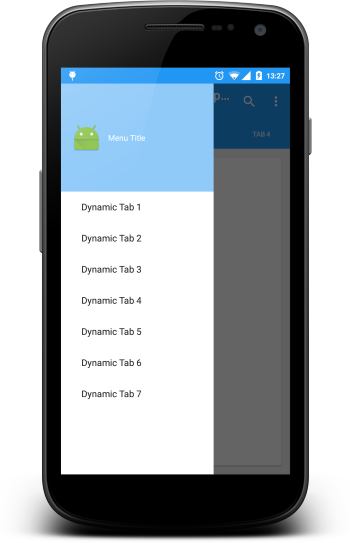
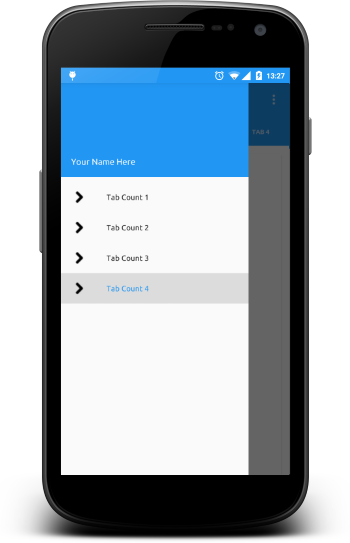
Added NavigationView Updated all components for SDK Level 23

diff --git a/app/src/main/java/net/mustafaozcan/materialnavigation/MainActivity.java b/app/src/main/java/net/mustafaozcan/materialnavigation/MainActivity.java
@@ -19,6 +19,7 @@ package net.mustafaozcan.materialnavigation;
 
 import android.content.res.Configuration;
 import android.os.Bundle;
+import android.support.design.widget.NavigationView;
 import android.support.v4.view.MenuItemCompat;
 import android.support.v4.view.ViewPager;
 import android.support.v4.widget.DrawerLayout;
@@ -30,16 +31,13 @@ import android.support.v7.widget.Toolbar;
 import android.view.Menu;
 import android.view.MenuItem;
 import android.view.View;
-import android.widget.AdapterView;
-import android.widget.ArrayAdapter;
-import android.widget.LinearLayout;
-import android.widget.ListView;
 import android.widget.Toast;
 
 public class MainActivity extends AppCompatActivity {
     private ActionBarDrawerToggle mDrawerToggle;
     private DrawerLayout mDrawerLayout;
-    private LinearLayout mDrawerPanel;
+    private NavigationView mNavigationView;
+    private int mCurrentSelectedPosition;
 
     @Override
     protected void onCreate(Bundle savedInstanceState) {
@@ -50,6 +48,8 @@ public class MainActivity extends AppCompatActivity {
 
         // Initial tab count
         setTabs(4);
+        mNavigationView.setCheckedItem(R.id.navigation_item_4);
+
     }
 
     private void setUpNavigationDrawer() {
@@ -67,19 +67,30 @@ public class MainActivity extends AppCompatActivity {
         } catch (Exception ignored) {
         }
 
-        ListView mDrawerListView = (ListView) findViewById(R.id.navDrawerList);
-        mDrawerPanel = (LinearLayout) findViewById(R.id.navDrawerPanel);
         mDrawerLayout = (DrawerLayout) findViewById(R.id.drawer_layout);
-        //String mActivityTitle = getTitle().toString();
-
-        ArrayAdapter<String> mAdapter = new ArrayAdapter<>(this, android.R.layout.simple_list_item_1, getResources().getStringArray(R.array.menulist));
-        mDrawerListView.setAdapter(mAdapter);
-
-        mDrawerListView.setOnItemClickListener(new AdapterView.OnItemClickListener() {
+        mNavigationView = (NavigationView) findViewById(R.id.navigation_view);
+        mNavigationView.setNavigationItemSelectedListener(new NavigationView.OnNavigationItemSelectedListener() {
             @Override
-            public void onItemClick(AdapterView<?> parent, View view, int position, long id) {
-                setTabs(position + 1);
-                mDrawerLayout.closeDrawer(mDrawerPanel);
+            public boolean onNavigationItemSelected(MenuItem menuItem) {
+                menuItem.setChecked(true);
+                switch (menuItem.getItemId()) {
+                    case R.id.navigation_item_1:
+                        mCurrentSelectedPosition = 0;
+                        break;
+                    case R.id.navigation_item_2:
+                        mCurrentSelectedPosition = 1;
+                        break;
+                    case R.id.navigation_item_3:
+                        mCurrentSelectedPosition = 2;
+                        break;
+                    case R.id.navigation_item_4:
+                        mCurrentSelectedPosition = 3;
+                        break;
+                }
+
+                setTabs(mCurrentSelectedPosition + 1);
+                mDrawerLayout.closeDrawer(mNavigationView);
+                return true;
             }
         });
 
@@ -102,7 +113,7 @@ public class MainActivity extends AppCompatActivity {
 
     }
 
-    private void setTabs(int count) {
+    public void setTabs(int count) {
         ViewPager vpPager = (ViewPager) findViewById(R.id.vpPager);
         ContentFragmentAdapter adapterViewPager = new ContentFragmentAdapter(getSupportFragmentManager(), this, count);
         vpPager.setAdapter(adapterViewPager);
@@ -126,8 +137,8 @@ public class MainActivity extends AppCompatActivity {
 
     @Override
     public void onBackPressed() {
-        if (mDrawerLayout.isDrawerOpen(mDrawerPanel)) {
-            mDrawerLayout.closeDrawer(mDrawerPanel);
+        if (mDrawerLayout.isDrawerOpen(mNavigationView)) {
+            mDrawerLayout.closeDrawer(mNavigationView);
         } else {
             super.onBackPressed();
         }
@@ -178,10 +189,10 @@ public class MainActivity extends AppCompatActivity {
     public boolean onOptionsItemSelected(MenuItem item) {
 
         if (item != null && item.getItemId() == android.R.id.home) {
-            if (mDrawerLayout.isDrawerOpen(mDrawerPanel)) {
-                mDrawerLayout.closeDrawer(mDrawerPanel);
+            if (mDrawerLayout.isDrawerOpen(mNavigationView)) {
+                mDrawerLayout.closeDrawer(mNavigationView);
             } else {
-                mDrawerLayout.openDrawer(mDrawerPanel);
+                mDrawerLayout.openDrawer(mNavigationView);
             }
             return true;
         }
